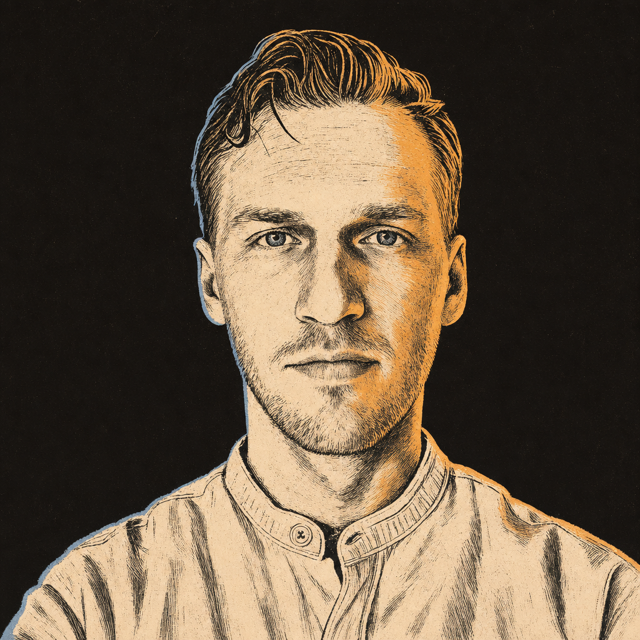
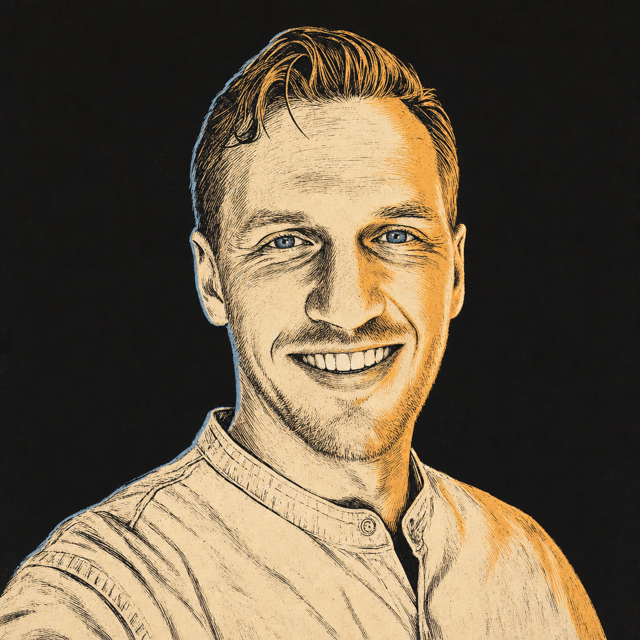
Smilende portrett (kontaktkort + Folkene-platen), nøkkel fjernet fra Uke 6
- Nytt linosnitt-portrett generert fra smilende foto — erstatter både
  kontaktkortets bilde og «PS»-initialene i Folkene-personplaten
- Prosess: nøkkel-glyfen som gled over railen ved Uke 6 er fjernet
  (komponent + CSS); badge-flippen BYGGES→I DRIFT står igjen alene

Changed region(s): [[0.0, 0.0312, 1.0, 1.0]]

diff --git a/src/components/verksted/sections/Prosess.tsx b/src/components/verksted/sections/Prosess.tsx
@@ -247,16 +247,6 @@ function Pinned({ p }: { p: ProsessContent }) {
                   <span className="vk-pro-stop-cap">{p.weekLabel}</span>
                 </button>
               ))}
-              {/* The key slides 80px across the rail to the visitor's side. */}
-              <motion.span
-                className="vk-pro-key"
-                aria-hidden="true"
-                initial={false}
-                animate={{ x: live ? 80 : 0, opacity: live ? 1 : 0 }}
-                transition={{ type: "spring", stiffness: 280, damping: 24 }}
-              >
-                <KeyGlyph />
-              </motion.span>
             </nav>
             <div className="vk-pro-badge" aria-hidden="true">
               <motion.span
@@ -308,21 +298,6 @@ function TypeLine({ text }: { text: string }) {
         <span className="vk-pro-caret" />
       </span>
     </p>
-  );
-}
-
-function KeyGlyph() {
-  return (
-    <svg viewBox="0 0 48 20" width="48" height="20" aria-hidden="true" focusable="false">
-      <circle cx="9" cy="10" r="5.75" fill="none" stroke="currentColor" strokeWidth="2.5" />
-      <path
-        d="M14.75 10H44M37 10v6M42 10v4.5"
-        fill="none"
-        stroke="currentColor"
-        strokeWidth="2.5"
-        strokeLinecap="round"
-      />
-    </svg>
   );
 }
 

diff --git a/src/styles/verksted/folkene.css b/src/styles/verksted/folkene.css
@@ -392,16 +392,13 @@
   height: 72px;
   background: var(--benk);
   border: 1px solid var(--hairline);
+  overflow: hidden;
 }
 
-.vk-folk-plate span {
-  font-family: var(--font-fraunces), Georgia, serif;
-  font-variation-settings: "opsz" 144;
-  font-size: 32px;
-  font-weight: 560;
-  line-height: 1;
-  letter-spacing: -0.01em;
-  color: var(--glod);
+.vk-folk-plate-img {
+  width: 100%;
+  height: 100%;
+  object-fit: cover;
 }
 
 .vk-folk-person-meta {

diff --git a/src/components/verksted/sections/Folkene.tsx b/src/components/verksted/sections/Folkene.tsx
@@ -292,8 +292,15 @@ export function Folkene() {
             className="vk-folk-person"
             {...stampIn(anim, 0.15)}
           >
-            <div className="vk-folk-plate" aria-hidden="true">
-              <span>{t.folkene.person.initials}</span>
+            <div className="vk-folk-plate">
+              <Image
+                src="/verksted/petter-portrett.png"
+                alt={t.kontakt.portraitAlt}
+                width={640}
+                height={640}
+                sizes="72px"
+                className="vk-folk-plate-img"
+              />
             </div>
             <p className="vk-folk-person-meta">
               <span className="vk-folk-person-name">{t.folkene.person.name}</span>

diff --git a/src/styles/verksted/prosess.css b/src/styles/verksted/prosess.css
@@ -321,16 +321,6 @@
   }
 }
 
-.vk-pro-key {
-  position: absolute;
-  right: 88px;
-  top: 50%;
-  translate: 0 -50%;
-  z-index: 2;
-  display: inline-flex;
-  color: var(--glod);
-  filter: drop-shadow(0 0 6px var(--glod-halo));
-}
 
 /* ── Badge: BYGGES (dimmed) ↔ I DRIFT (amber, lit) ── */
 